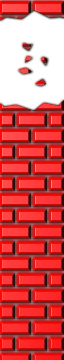
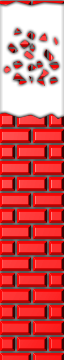
destruction mur + transition sort écran

Changed region(s): [[0.0, 0.0, 1.0, 0.3361]]

diff --git a/src/javagame/Play.java b/src/javagame/Play.java
@@ -445,6 +445,13 @@ public class Play extends BasicGameState {
             block.get(0).image.draw(winSize.x + block.pos.x,block.pos.y);
         }
         
+        if (wall.broken != -1) {
+            wall.imgBroken[wall.broken].draw(wall.pos.x, wall.pos.y);
+        }
+        else{
+            wall.image.draw(wall.pos.x, wall.pos.y);
+        }
+        
         
         if (player.fury==false) {
             if (player.furyLoad) {
@@ -472,12 +479,7 @@ public class Play extends BasicGameState {
             player.furyImage.draw(player.pos.x, player.pos.y);
         } 
         
-        if (wall.broken != -1) {
-            wall.imgBroken[wall.broken].draw(wall.pos.x, wall.pos.y);
-        }
-        else{
-            wall.image.draw(wall.pos.x, wall.pos.y);
-        }
+        
         
         for (Coin coin:activeCoins) {
             coin.images[coinFrame].draw(coin.pos.x, coin.pos.y);
@@ -535,8 +537,14 @@ public class Play extends BasicGameState {
             stats.timer += delta;
         }
         else {
-            wall.pos.x = 640;
-            wall.broken = -1;
+            if (wall.pos.x > -64 && wall.pos.x < 640) {
+                wall.pos.x -= delta * wall.speed;
+            }
+            else {
+                wall.pos.x = 640;
+                wall.broken = -1;
+            }
+            
         }        
         
         /*
@@ -572,7 +580,7 @@ public class Play extends BasicGameState {
         /*
         Destroy the wall if on-screen
         */
-        if (wall.pos.x<640) {
+        if (wall.pos.x<640 && wall.pos.x>-64) {
             destroyWall();
         }
         
